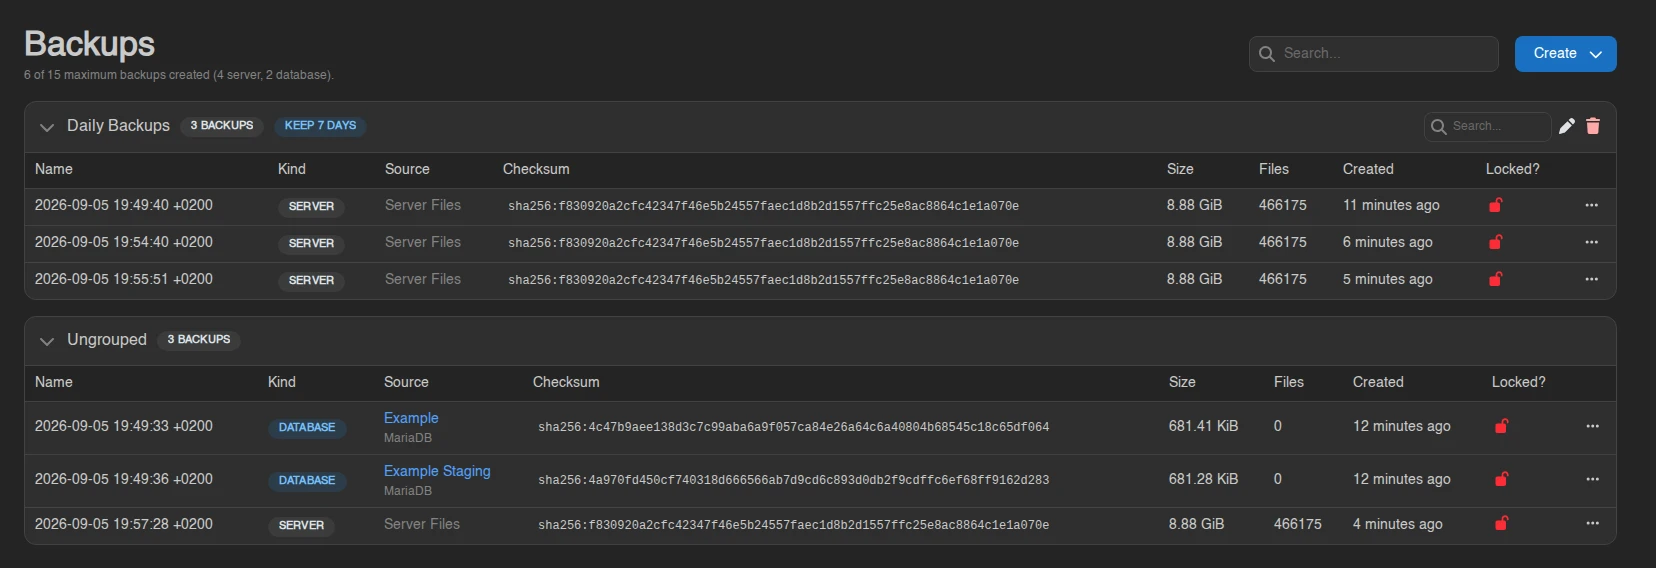
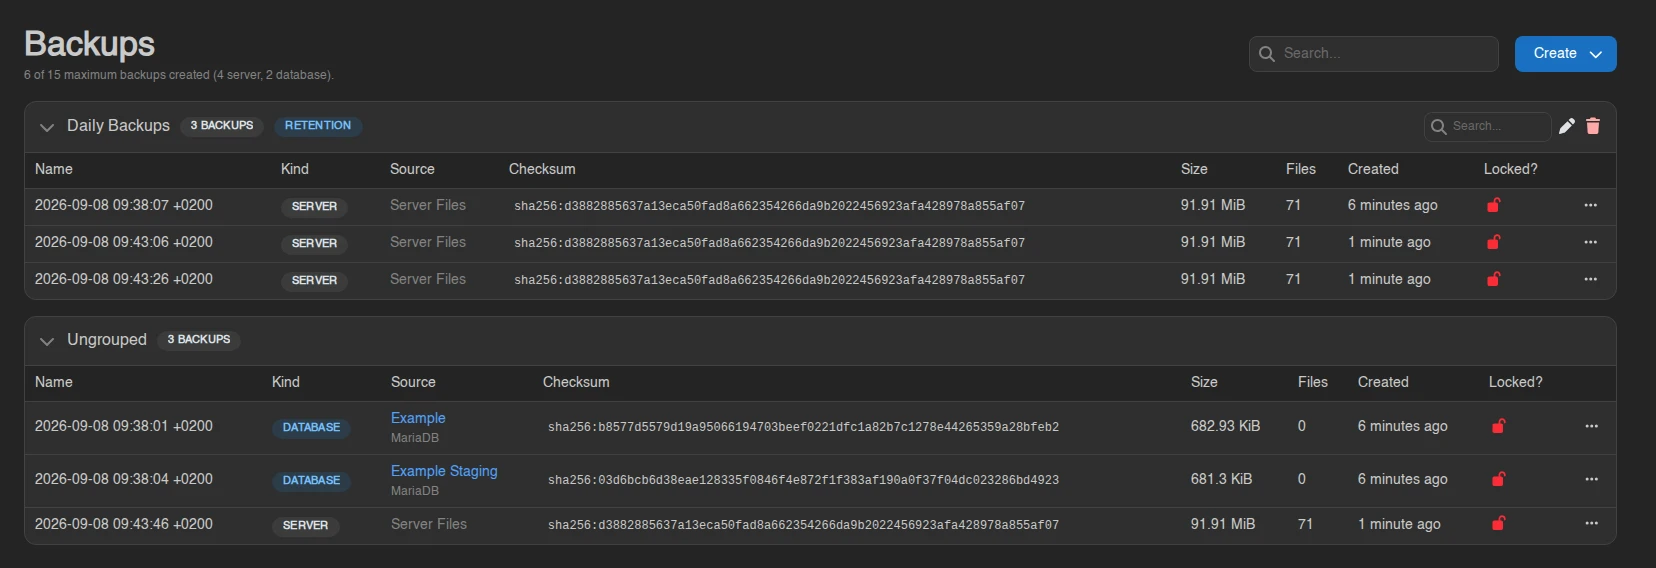
update docs

diff --git a/web/docs/panel/features/server/backups.md b/web/docs/panel/features/server/backups.md
@@ -42,33 +42,59 @@ A dump has no file tree, so **Browse**, **Export to Files**, and **Backup Metada
 
 ## Backup Groups
 
-Groups organize backups and can rotate them automatically. Each group is a collapsible card with its own search box, and any backups outside a group collect under **Ungrouped**. An empty group reads "This group has no backups yet." with a **Create backup in this group** button.
+Groups organize backups, and their retention rules decide which ones the panel keeps. Each group is a collapsible card with its own search box, and any backups outside a group collect under **Ungrouped**. An empty group reads "This group has no backups yet." with a **Create backup in this group** button.
 
-The group header shows retention at a glance:
+The group header shows:
 
 | Badge | Meaning |
 | --- | --- |
-| `1/5` | Usable backups versus the group's **Keep count**. Turns yellow when over the limit. Groups without a Keep count show a plain "N Backups" badge instead. |
-| **Keep 7 Days** | The group's **Keep days** retention. |
-| **No auto-deletion** | No retention set; the group is just a label. |
-| **All locked** | Every backup in the group is locked, so nothing can be rotated out. |
+| `N Backups` | How many backups the group holds. |
+| **Retention** | The group has retention rules. Hover it to see them. |
+| **No retention rules** | Nothing is set, so the group is only a label. |
+| **All locked** | Every backup in the group is locked, so nothing can be deleted automatically. |
+
+![The Retention badge hovered, showing "Keep latest: 5, Keep daily: 7"](./images/backups/group-retention-tooltip.webp)
+
+The tooltip lists only the rules that are switched on, so it doubles as a summary of what the group keeps without opening the edit form.
+
+### Retention Rules
+
+A group has six rules, each off when you leave it empty or set it to 0.
+
+| Rule | Keeps |
+| --- | --- |
+| **Keep latest** | The newest N backups. |
+| **Keep all within days** | Every backup taken in the last N days. |
+| **Keep daily** | The newest backup from each of the last N days that has one. |
+| **Keep weekly** | The newest backup from each of the last N weeks that has one. |
+| **Keep monthly** | The newest backup from each of the last N months that has one. |
+| **Keep yearly** | The newest backup from each of the last N years that has one. |
+
+A backup is kept when any one rule selects it, so the rules stack: **Keep latest** 5 alongside **Keep monthly** 12 gives you the five most recent backups plus one per month going back a year. Anything no rule selects is deleted. Periods follow UTC and weeks start on Monday.
+
+Empty periods don't use up a slot. **Keep daily** 7 holds the newest backup from each of the seven most recent days that actually have one, so a quiet week doesn't push your older dailies out.
+
+Every source has its own history: the server's files are one, and each managed database is another. **Keep latest** 3 in a group holding server backups and two database backups therefore keeps three of each. A locked backup fills a slot but is never deleted. Failed backups sit outside retention entirely, and the panel removes unlocked failed ones 24 hours after they finish, whether they are in a group or not.
+
+Retention is evaluated when a backup finishes, when you move one between groups, and once an hour for every group.
 
 ### Creating and Editing a Group
 
-Pick **Create Backup Group** from the **Create** menu. Give it a name and optionally set:
+Pick **Create Backup Group** from the **Create** menu. Give it a name and fill in whichever rules you want; **Retention** has a helper popover describing them.
 
-- **Keep count**: maximum number of usable backups to keep in this group. Leave empty for no limit.
-- **Keep days**: delete backups in this group older than this many days. Leave empty for no limit.
+<img src="./images/backups/group-edit-modal.webp" width="220" alt="" />
 
-<img src="./images/backups/group-edit-modal.webp" width="221" alt="" />
-
-With neither set, the group never deletes backups automatically. **Keep count** is applied to each kind separately, so a group with a Keep count of 5 holds up to five server backups and up to five database backups at once; **Keep days** applies to everything in the group. Use the pencil icon in a group's header to edit it later. There is also a panel-wide limit on groups per server, set under [Settings > Server](../admin/settings.md#server); the **Create Backup Group** option disappears once you reach it.
+Leave them all empty and the modal tells you what that means: "With no retention set, this group is just a label and never deletes successful backups automatically." Use the pencil icon in a group's header to edit it later. There is also a panel-wide limit on groups per server, set under [Settings > Server](../admin/settings.md#server); the **Create Backup Group** option disappears once you reach it.
 
 Once you have more than one group, each header grows a grip handle: drag it to reorder the groups on the page. This is display order only and doesn't affect retention.
 
+### Reaching the Backup Limit
+
+The server's backup limit is a hard cap that groups don't raise; retention only decides which backup goes when room is needed. At the limit, an automatic backup makes room for itself by deleting whatever your rules no longer keep. If there is nothing expendable it takes one more, preferring a failed backup, then an ungrouped one, and only then a backup a group still keeps. A manual backup is refused rather than delete something a rule still keeps, and locked backups are never touched. Every automatic deletion shows up in the server's [Activity](./activity.md) log with the rule and the group that caused it.
+
 ### Deleting a Group
 
-Click the trash icon in the group header and type the group's name to confirm. The backups inside are not deleted, they become ungrouped and follow standard rotation. A **Lock backups** switch locks all backups in the group first, so they cannot be rotated out automatically afterwards.
+Click the trash icon in the group header and type the group's name to confirm. The backups inside are not deleted, they become ungrouped, so no retention rule applies to them and they only go if the server reaches its backup limit. A **Lock backups** switch locks all backups in the group first, so they cannot be deleted automatically afterwards.
 
 ## System Backups
 
@@ -84,7 +110,7 @@ Right-click a backup (or use the menu at the end of the row) for its actions.
 
 ### Edit
 
-Rename the backup, move it to another group, or toggle **Locked**. A locked backup cannot be deleted and is never rotated out by group retention.
+Rename the backup, move it to another group, or toggle **Locked**. A locked backup cannot be deleted, and retention never removes it or evicts it to make room at the backup limit.
 
 <img src="./images/backups/edit-modal.webp" width="220" alt="" />
 

diff --git a/web/docs/panel/features/admin/system-backup-policies.md b/web/docs/panel/features/admin/system-backup-policies.md
@@ -7,7 +7,7 @@ description: Schedule automatic server backups panel-wide, scoped to locations, 
 
 System backup policies (**Storage** > **System Backup Policies**) take server backups automatically on a schedule, without users or per-server [schedules](../server/schedules.md) being involved. A policy covers a set of servers, runs on a cron schedule, and cleans up after itself with retention rules.
 
-The list shows each policy's ID, Name, **Schedule** (the cron expression), **Backups** (how many it has taken), and Created, with a **Disabled** badge on disabled policies and a **Run pending** badge while a run is due. Use the search box to filter.
+The list shows each policy's ID, Name, **Schedule** (the cron expression), **Backups** (how many it has taken), and Created, with a **Retention** badge next to the name (hover it to see the rules, the same tooltip [backup groups](../server/backups.md#backup-groups) use) or **No retention rules**, a **Disabled** badge on disabled policies, and a **Run pending** badge while a run is due. Use the search box to filter.
 
 ![System backup policies list](./images/system-backup-policies/list.webp)
 
@@ -22,8 +22,7 @@ Click **Create** in the top right.
 | **Name** / **Description** | Display name and optional free text. |
 | **Backup Configuration** | Which [backup configuration](./backup-configurations.md) the policy's backups are written to. Defaults to **Inherit from Server**, the same resolution a manual backup would use. |
 | **Schedule** | "Cron expression (with seconds) that determines when backups are taken, in UTC." The field has a helper popover for building the expression segment by segment, describes the current expression in plain English underneath, and previews when the next run would be. |
-| **Keep count** | "Maximum number of successful backups to keep per server. Leave empty for no limit." |
-| **Keep days** | "Delete backups older than this many days. Leave empty for no limit." |
+| **Retention** | Six rules deciding which of the policy's backups survive: **Keep latest**, **Keep all within days**, **Keep daily**, **Keep weekly**, **Keep monthly**, and **Keep yearly**, each off when empty or 0. They work as they do for [backup groups](../server/backups.md#retention-rules), and the field has a helper popover describing them. The rules apply per server, and separately to the server's files and to each of its managed databases. |
 | **Parallelism** | "Maximum number of backups this policy runs at the same time on a single node." |
 | **Enabled** | "Disabled policies keep their backups but do not take new ones." |
 
@@ -45,7 +44,7 @@ Covered is not the same as backed up on every run: servers that are mid-transfer
 
 ## Backups
 
-The **Backups** tab lists every backup the policy has taken, searchable: Name, Server, Node, Checksum, Size, Files, and Created, each row tagged with a **SYSTEM** badge and carrying a download action. Policy backups do not count towards each server's backup limit and are not rotated by [backup groups](../server/backups.md#backup-groups); the policy's own **Keep count** and **Keep days** rules manage them instead.
+The **Backups** tab lists every backup the policy has taken, searchable: Name, Server, Node, Checksum, Size, Files, and Created, each row tagged with a **SYSTEM** badge and carrying a download action. Policy backups do not count towards each server's backup limit and no [backup group](../server/backups.md#backup-groups) touches them; the policy's own **Retention** rules manage them instead, re-checked once an hour. Unlocked failed attempts are cleaned up 24 hours after they finish.
 
 ![Policy backups tab](./images/system-backup-policies/backups.webp)
 
@@ -54,7 +53,7 @@ The **Backups** tab lists every backup the policy has taken, searchable: Name, S
 Deleting asks whether to also delete the policy's backups (**Do you want to delete backups created by this policy?**):
 
 - Switch on: "All backups created by this policy will be permanently deleted from their storage backends."
-- Switch off: "Backups created by this policy will become regular server backups. They will count towards each server backup limit and follow standard rotation."
+- Switch off: "Backups created by this policy will become regular server backups. They will count towards each server backup limit and follow standard rotation." Released backups belong to no group, so no retention rule applies to them afterwards.
 
 ::: info
 The buttons on these pages follow the `system-backup-policies.*` admin permission keys (`create`, `read`, `update`, `delete`, `backups`). See the [Permissions Reference](../dashboard/permissions.md).

diff --git a/web/docs/panel/features/server/databases.md b/web/docs/panel/features/server/databases.md
@@ -95,9 +95,27 @@ Right-click a database for:
 
 ### Users Tab
 
-Per-instance database users, also capped ("0 of 10 maximum users created."). Each row lists the databases that user can reach as badges under a **Databases** column, blue for read and write access, grey for read-only.
+Per-instance database users, shown with the `database-instances.users` permission and capped by **Max Users per Database Instance** under [Settings > Server](../admin/settings.md#server) ("0 of 10 maximum users created."). Each row lists the databases that user can reach as badges under a **Databases** column, blue for read and write access, grey for read-only.
 
-**Create** takes a **Username** (letters and numbers only) and, for everything except Redis, a **Database Access** list: every database in the instance with a **No Access** / **Read Only** / **Read & Write** control next to it. A user can hold access to as many databases as you like, at a different level in each.
+**Create** takes a **Username** of 2 to 23 characters, letters and digits only, and for everything except Redis a **Database Access** list. What you type is a suffix rather than the final name: the agent prefixes it to keep users from different servers apart, so `appuser` is created as something like `ub3bf2a14_appuser`, and that prefixed form is what the table, the credentials and your connection string all use. You never choose a password either; the agent generates one and **Details** shows it.
+
+#### Database Access
+
+Access is granted per database rather than per instance. The list names every database in the instance with a **No Access** / **Read Only** / **Read & Write** control beside it, and one user can hold a different level in each. You get the same list whether you are creating a user or editing one through **Permissions**, and the **Databases** badges on the row summarize the result.
+
+<img src="./images/databases/instance-user-permissions-modal.webp" width="220" alt="" />
+
+**No Access** is the absence of a grant rather than a stored setting. Creating a database only takes a name, so a new one starts out unreachable until you grant somebody access to it. **Recreate** keeps the grants, so wiping a database does not change who can reach it.
+
+Redis instances have no databases, so their users are instance-wide and **Permissions** never appears for them. An instance whose databases you have not created yet says "This instance has no databases yet." and hides the action too.
+
+Editing access also needs `database-instances.databases`, since the panel has to read the instance's databases to draw the list. Without it, both the **Create** button and the **Permissions** action disappear.
+
+The instance also has to be running. While it is stopped, **Create**, **Permissions** and **Delete** are greyed out, and **Create** says why: "The instance must be running to create users." Redis is the exception again, since its users have no grants to apply, so they can be created and removed with the instance off.
+
+::: warning `database-instances.users` includes the passwords
+Classic databases keep their password behind a separate `databases.read-password` permission. Managed instances have no such split, so anyone who can open this tab can read every user's password from **Details**. Grant it as you would hand out the credentials themselves. See the [Permissions Reference](../dashboard/permissions.md).
+:::
 
 Right-click a user for:
 
